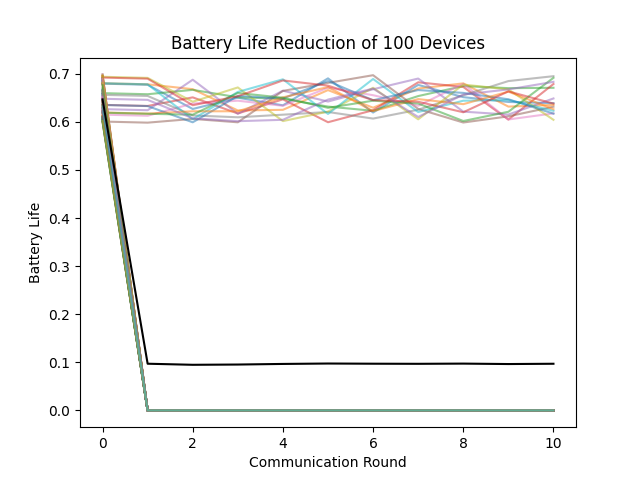
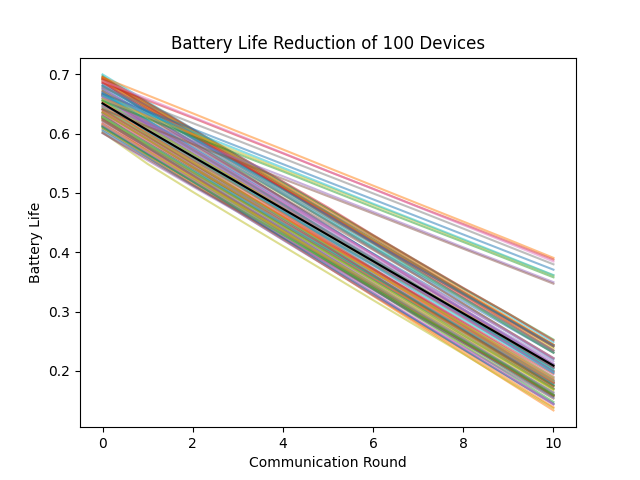
working battery simulation

diff --git a/cloud.py b/cloud.py
@@ -28,6 +28,18 @@ from fl_utils import aggregate_cos, aggregate_avg
 import time
 
 preferred_device = "cpu"
+# train times for all 100 devices, should be 100 lists and push the time to the corresponding list
+train_times = [[] for _ in range(100)]
+batteries = [[] for _ in range(100)]
+phones = []
+for i in range(100):
+    phone, battery = init_battery()
+    phones.append(phone)
+    batteries[i].append(battery)
+
+max_round_times = np.zeros(10)
+log_round = 0
+info_dump = {}
 
 
 class DeviceHandler(threading.Thread):
@@ -119,7 +131,7 @@ class DeviceHandler(threading.Thread):
             verbose=self.verbose,
         )
         # != is necessary
-        assert done_setup != "done_setup", f"[!] Received no input from {self.dev_name}"
+        assert done_setup == "done_setup", f"[!] Received no input from {self.dev_name}"
         # Step 4. Send the device model weight
         # just added this here for sanity
         self.simulation = True
@@ -151,6 +163,18 @@ class DeviceHandler(threading.Thread):
             print("[!] ERROR not done training")
 
         self.train_time = received_data.split(";")[1]
+        print(received_data.split(";"))
+        dev_time = float(received_data.split(";")[1])
+        train_index = received_data.split(";")[2]
+        train_index = int(train_index)
+        batteries[train_index].append(
+            reduce_battery(
+                "apple_iphone_15",
+                batteries[train_index][len(batteries[train_index]) - 1],
+                dev_time,
+            )
+        )
+        train_times[train_index].append(self.train_time)
 
         # Step 6. Get the weights file from the server
         if not self.simulation:
@@ -176,6 +200,8 @@ class Cloud:
 
     def federated_learning(self):
         total_time_start = time.time()
+        round_time = time.time()
+        times = np.zeros(10)
 
         with open(self.cloud_cfg, "r") as cfg:
             dat = json.load(cfg)
@@ -366,17 +392,13 @@ class Cloud:
                     f"Communication Round,Device Index,AP Name,Device Type,"
                     f"Communication Speedup, Distance to AP\n"
                 )
-            # log for devices used in the round
-            with open(f"logs/devices_{experiment}.csv", "w") as logger:
-                logger.write(
-                    f"Communication Round,Device Index,Device Type,"
-                    f"Communication Speedup, Distance to AP\n"
-                )
+
             if ap_option == "use_only_trained_aps":
                 for idx in range(num_users):
                     devices_last_seen.append({"comm_round": -1, "aggregated": False})
 
         for comm_round in myrange:
+            log_round = comm_round
             print(
                 f"Mobility: {mobility}, cosine: {cosine}, hierarchical: {hierarchical}, "
                 f"total devices: {mobility_devices}, AP_OPTION: {ap_option}"
@@ -536,6 +558,18 @@ class Cloud:
                             path.join(cloud_path, f"global_weights_{comm_round}.pth"),
                         )
 
+                    round_time = time.time() - round_time
+                    times[t_idx] = round_time
+                    for i in range(mobility_devices):
+                        battery_life[i][comm_round + 1] = reduce_battery(
+                            mobility_data_filt[t[t_idx]][i]["phone"],
+                            mobility_data_filt[t[t_idx]][i]["battery"],
+                            round_time,
+                        )
+                        mobility_data_filt[t[t_idx]][i]["battery"] = battery_life[i][
+                            comm_round + 1
+                        ]
+
                     loss_test, acc_test = test(
                         model=net_glob,
                         loss_func=loss_func,
@@ -558,19 +592,13 @@ class Cloud:
                     print(
                         f"CommRound: {comm_round}; Accuracy: {acc_test}; Loss: {loss_test}"
                     )
+
                     t_idx += 1
                     continue
                 elif len(available_devices) <= num_devices:
                     available_devices_idx = []
                     for d in available_devices:
                         available_devices_idx.append(d["device_idx"])
-                    # log for devices used in the round
-                    with open(f"logs/devices_{experiment}.csv", "a+") as logger:
-                        for d in available_devices:
-                            logger.write(
-                                f"{comm_round},{d['device_idx']},{d['device_type']},"
-                                f"{d['internet_speed']},{d['dist_to_ap']}\n"
-                            )
 
                 elif len(available_devices) > 10:
                     available_devices_idx = []
@@ -1111,15 +1139,19 @@ class Cloud:
         print(f"Total time for experiment: {time.time() - total_time_start}")
         with open(path.join("logs", "time.csv"), "a+") as logger:
             logger.write(f"{experiment},{time.time() - total_time_start}\n")
-        per_round_time = (time.time() - total_time_start) / len(myrange)
-        for i in range(len(myrange)):
-            for j in range(num_devices):
-                dev = mobility_data_filt[t[i]][j]
-                dev["battery"] = reduce_battery(
-                    dev["phone"], dev["battery"], per_round_time
-                )
-                battery_life[j][i + 1] = dev["battery"]
-        plot_battery_life(battery_life, len(myrange), 100, experiment)
+
+        plot_battery_life(batteries, len(myrange), 100, experiment)
+        # savetrain times
+        # add headers: experiment,train_time1,train_time2,...,train_timeN
+
+        with open(path.join("logs", "round_times.csv"), "a+") as logger:
+            logger.write(f"{experiment},")
+            for i in range(len(train_times)):
+                logger.write(f"[")
+                for j in range(len(train_times[i])):
+                    logger.write(f"{train_times[i][j]},")
+                logger.write(f"],")
+            logger.write("\n")
 
         print("Closing everything")
         device_handler_list = []

diff --git a/battery.py b/battery.py
@@ -27,6 +27,7 @@ Then just multiply Pi by training time to get the power consumption for that rou
 import numpy as np
 
 battery_life = np.random.uniform(0.6, 0.7, 1000)
+scaling_factor = 150.0
 
 """
 Dictionary of phone models:
@@ -60,13 +61,18 @@ def init_battery(seed=None):
 
 
 def reduce_battery(phone, battery, training_time):
-    model = phone_models[phone]
+    try:
+        model = phone_models[phone]
+    except:
+        model = phone_models["apple_iphone_15"]
     power_consumption = (
         model["baseline_power"]
         + model["cores"] * model["power_coefficient"] * model["frequency"]
     )
     current_wh = battery * model["battery_capacity"]
-    current_wh -= power_consumption * (training_time / 3600)
+    if power_consumption * (scaling_factor * (training_time / 3600)) > current_wh:
+        return 0
+    current_wh -= power_consumption * (scaling_factor * (training_time / 3600))
     battery = current_wh / model["battery_capacity"]
     if battery < 0:
         battery = 0
@@ -97,7 +103,7 @@ if __name__ == "__main__":
         phone, b = init_battery()
         battery.append(b)
         for i in range(10):
-            b = reduce_battery(phone, b, 50)
+            b = reduce_battery(phone, b, 8)
             battery.append(b)
     battery = np.array(battery).reshape(100, 11)
     plt.plot(battery.T, alpha=0.5)

diff --git a/device.py b/device.py
@@ -280,7 +280,7 @@ class Device:
             start_time = time.time()
         send_msg(
             connection=self.connection,
-            msg=f"done_training;{train_time}",
+            msg=f"done_training;{train_time};{self.dev_idx};{self.model_filename}",
             verbose=self.verbose,
         )
         filesize += getsizeof(f"done_training;{train_time}")

diff --git a/mobility_data/mobility_utils.py b/mobility_data/mobility_utils.py
@@ -231,6 +231,7 @@ def go_through_all_clients(
             "long": long,
             "AP_name": ap_name,
             "dist_to_ap": dist,
+            "battery": 100,
             "internet_speed": internet_speed,
         }
 

diff --git a/README.md b/README.md
@@ -57,6 +57,8 @@ is `home/user/MOHAWK/files` then in `exp0.bash` use `cloud_path="files"`.
 So the train function in utils has a dataloader that causes a deadlock for num_workers > 0. I set it to 0 but I'm
 unsure of how this will affect the process. In the bash, change cuda limit per gpu to however many devices you're training unless you have more than one GPU. My default is 10 devices on 100 users and 100 aps, re-run the data_prepare with 100 devices and generate_dataset with num users as 100 to make the default work. try to experiment with how many devices you can run on your machine. Look into how the num_workers actually works since I think it affects the distributed learning process.
 
+Battery Note: The battery functions are in battery.py. It is largely dependent on the training time on the devices, but that can differentiate based on what you're simulating on. I have a scaling factor in the _battery.py_ file just to decrement more or less battery depending on training time. It is hardcoded for our default 100 devices.
+
 TODO:
 
 - [x] Figure out how to use num_workers in the dataloader
@@ -64,14 +66,15 @@ TODO:
 - [x] Figure out how to set the number of rounds, the default is 744, idk how to reduce that yet:
   - You can change the _myrange_ variable in [cloud.py] to reduce the number of rounds, default is the number of timesteps in a day for the mobility data, which is 744 rounds.
 - [ ] Add networkx and create a graph of the devices and their connections
-- [ ] Implement dropout, stragglers, and battery life
+- [ ] Implement dropout
+- [x] Implement battery model
+- [ ] Implement network viusalization
 
 Notes from Meeting:
 
-- [ ] Refine the upload speed slide, make three key points and make it more concise
-- [ ] Finalize how we model power, can use the communication energy model from the MOHAWK paper, find parameters to finalize the equation. Additionaly can add depletion for training time, but he's fine with that not being there.
+- [x] Refine the upload speed slide, make three key points and make it more concise
+- [x] Finalize how we model power, can use the communication energy model from the MOHAWK paper, find parameters to finalize the equation. Additionaly can add depletion for training time, but he's fine with that not being there.
 - [ ] To simulate node dropout, we still have to finish the training and add it to the t.join in the cloud. To dropout, we just won't include the training results in the aggregation. But definitely finish training it each time anyway or we'll have hanging threads.
-- [ ] The assert is not is supposed to be like that, we need to change it back to != in the _run_ function
 
 ## 5. Run experiments
 
